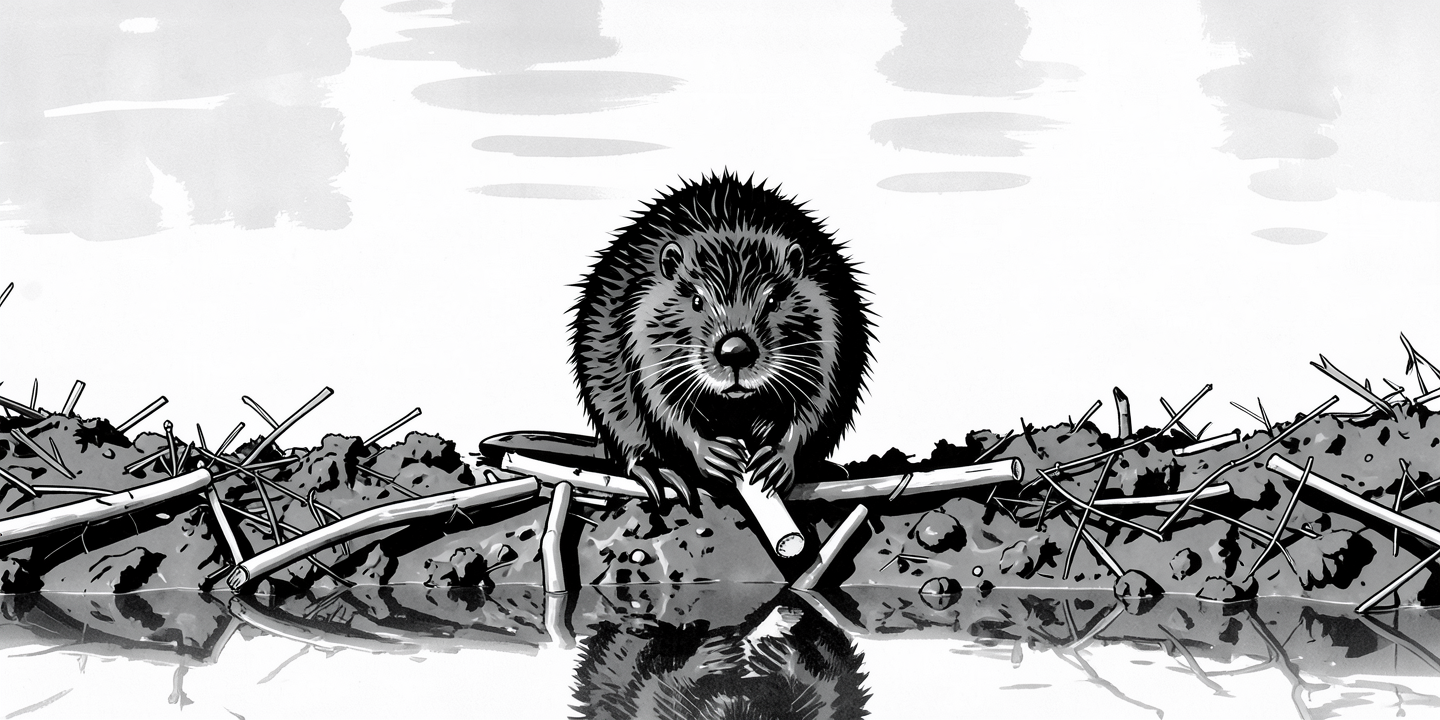
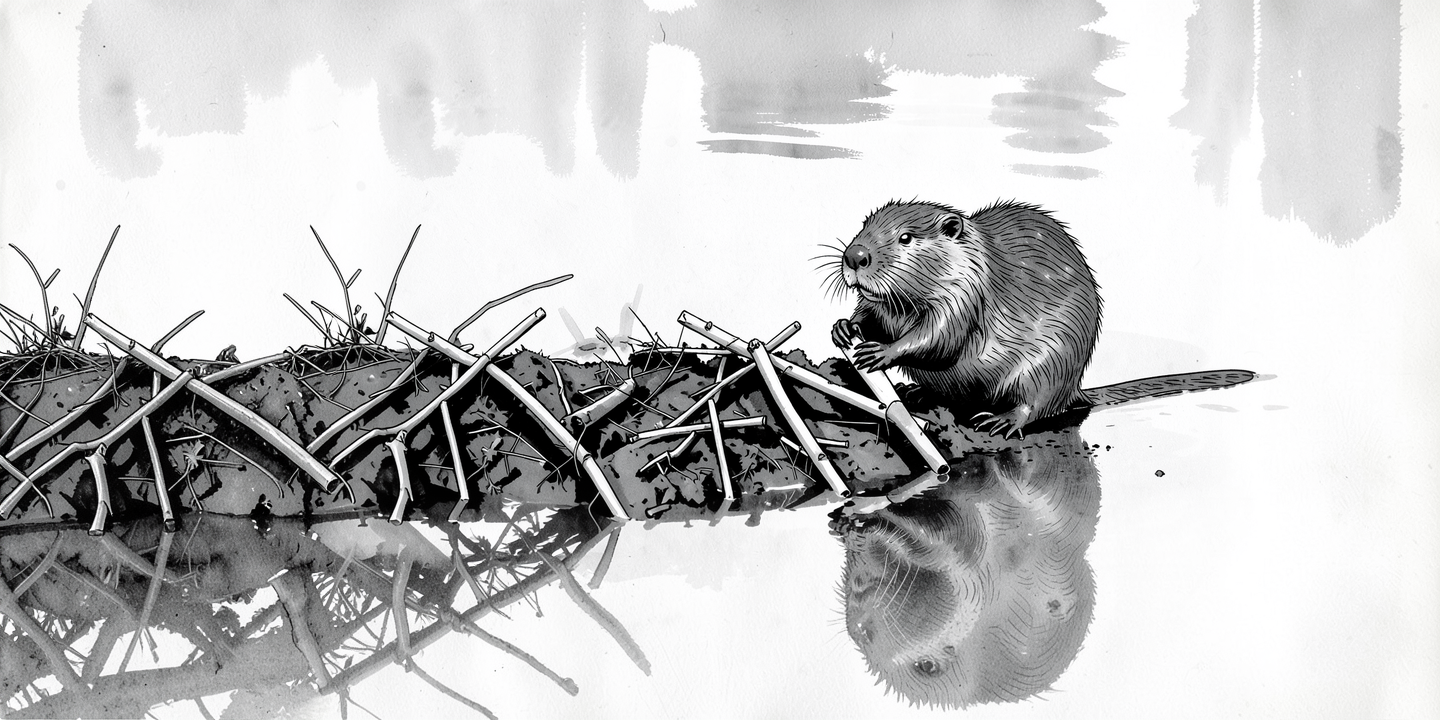
[post] Jev 迁移文章换封面: 海狸移到右三分线, 侧身把树枝按进坝里, 缩成中景
_jenny 按三分法重渲染（右三分线、三分之四侧面、尾巴落在水里），
再 outpaint 缩到 65%，让坝从左边横贯画面。原 PNG 归档到 assets/image-raw/，
渲染参数和种子记在 cover-prompt.md。

diff --git a/articles/2026-10-28-migrate-time-log-to-jev/cover-prompt.md b/articles/2026-10-28-migrate-time-log-to-jev/cover-prompt.md
@@ -51,3 +51,35 @@ Palette: strictly achromatic (black/gray/white), grayscale digital marker brushe
 ```
 
 Picked seeds: step 1 `494208114580278`, step 2 `1091560843525602`, step 3 `698482217004515`.
+
+## Rendered with _jenny (2026-11-03)
+
+Re-render of Version A. The 2026-10-28 cover had the beaver dead centre, its tail lying as a dark oval on the dam crest, and the beaver only holding a stick. Output: `cover.png` (1440×720). `cover.jpeg` and `cover-color.jpeg` are the old render and were not touched. Step 1 took three rounds: round 1 showed the tail on the dam or the water, and round 2 picks faced the camera. Round 3 asked for a three-quarter view. The first step 2 round, from a front-facing round 2 pick, cloned a second beaver into two of three outputs and was dropped.
+
+Step 1: Z-Image Turbo txt2img, short prompt:
+
+```
+An eye-level documentary photograph from just above the waterline of a single North American beaver at dusk, half out of the water on the crest of its stick-and-mud dam in the middle of the frame, turned in three-quarter view towards the left. Both small forepaws press a fresh pale peeled stick down into the grey sticks and mud of the dam top. Its wet dark-brown fur is slicked into spikes, and its hind half is submerged in the pond, so only its head, shoulders and forepaws show. A calm dark blue-grey pond fills both sides, softly out of focus, in low warm side light. Exactly one beaver, no text, no watermark.
+```
+
+Step 2: Flux 2 Klein 4B + pixaoutpaint, outpaint to 1440×720 with `--place right --subject-x 0.6` (the beaver faces left, so it sits on the right third and looks into the dam on the open left side). Beaver centre lands at about x = 965.
+
+Step 3: Flux 2 Klein 4B two-image style transfer against `.claude/agents/_jenny.assets/cover-style.jpg`, full style prompt:
+
+```
+A wide 2:1 eye-level ink drawing from just above the waterline of a single beaver at dusk, sitting at the edge of its stick-and-mud dam on the right third of the frame, turned in three-quarter view towards the left. Both small forepaws push a fresh pale peeled stick down into the mud of the dam; its flat tail lies in the water behind it. The dam of stacked sticks and mud runs across the open left side, a calm pond behind it and its reflection below. Heavy solid black brush shadows in the mud and under the sticks, bright white paper highlights on the pale stick and the water. Exactly one beaver, no text, no watermark.
+
+Line work: loose, confident black ink/brush linework with visible overshoot strokes at joints and edges (classic concept-art "energy line" gesture drawing)
+
+Shading: flat mid-gray fills for the base tone plus a single darker gray for core shadows — a 3-value system (white/light gray paper, mid-gray flat, black ink accents), no gradients or rendered soft shading
+
+Rendering approach: shapes blocked in with a marker/brush rather than fully rendered — reads as a fast, expressive design sketch rather than a finished illustration
+
+Palette: strictly achromatic (black/gray/white), grayscale digital marker brushes or Copic-marker-on-paper study
+```
+
+Picked seeds: step 1 `363724421604350`, step 2 `542017559427361`, step 3 `939500675916650`.
+
+### Zoom-out to a medium shot (2026-11-03)
+
+The step 3 pick was scaled to 65% (936×468) and placed at (333, 84) on a gray 1440×720 canvas, so the beaver stays at x ≈ 960 with its eye at y ≈ 240. The border was outpainted with Flux 2 Klein + `pixaoutpaint` (same graph as step 2), and the scaled original was stitched back with a 48 px feathered seam. Picked seed 266016538457764 (of 3; 02 grew a fake signature, 01 a stray tuft at the right edge).

diff --git a/articles/2026-10-28-migrate-time-log-to-jev/stage-log.md b/articles/2026-10-28-migrate-time-log-to-jev/stage-log.md
@@ -11,3 +11,4 @@
 - 2026-10-28 · Stage 3 准备：作者加入 sumomo.png（Sumomo 界面截图），插在 Sumomo 介绍段之后。
 - 2026-10-28 · Stage 3 进入：cover.png 已由 _jenny 渲染（Version A，参考 3336，种子见 cover-prompt.md）；draft.md 唯一配图 sumomo.png 存在，无占位符。
 - 2026-10-28 · Stage 3 → 4: 封面与 sumomo 截图均已转 JPEG（cover 190 KB、sumomo 97 KB），原 PNG 归档到 assets/image-raw/，alt text 已写，beehiiv.html 已生成；图片关卡通过（无 PNG、无超 500 KB）。
+- 2026-11-03 · 封面重渲染：_jenny 规则改为三分法构图，海狸放右三分线、三分之四侧面、前爪把树枝按进坝里；再 outpaint 缩到 65% 成中景（种子见 cover-prompt.md）。cover.jpeg 已替换，原 PNG 归档到 assets/image-raw/cover.png；draft.md 不链接封面，beehiiv.html 无需重生成；cover-color.jpeg 仍是旧构图。
